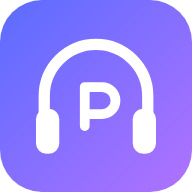
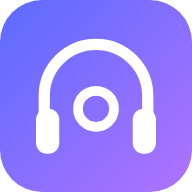
Renomme l'appli en Odecast, icône casque+O; v165
Claude-Session: https://claude.ai/code/session_01UPsEkbV1CFqTs3hgoHdmkF

Changed region(s): [[0.375, 0.4062, 0.6562, 0.6875]]

diff --git a/app.js b/app.js
@@ -1,4 +1,4 @@
-const APP_VERSION = '2026-11-06.164';
+const APP_VERSION = '2026-11-06.165';
 const $ = s => document.querySelector(s);
 const svg = (d, n = 20, fill = false) => `<svg viewBox="0 0 24 24" width="${n}" height="${n}" ${fill ? 'fill="currentColor"' : 'fill="none" stroke="currentColor" stroke-width="2" stroke-linecap="round" stroke-linejoin="round"'} aria-hidden="true">${d}</svg>`;
 const IC = {
@@ -830,8 +830,8 @@ function installSteps() {
     if (d.br === 'firefox') return ["Touche le menu (⋮) en haut à droite.", "Choisis « Installer ».", "Valide."];
     return ["Touche le menu du navigateur (⋮) en haut à droite.", "Choisis « Installer l'application » (ou « Ajouter à l'écran d'accueil »).", "Valide avec « Installer ».", "Si ces choix n'apparaissent pas, ouvre la page directement dans Chrome (pas dans une autre application) et recommence."];
   }
-  if (d.br === 'firefox') return ["Firefox pour ordinateur n'installe pas les applications web : utilise Chrome ou Edge pour installer Podiva."];
-  return ["Dans la barre d'adresse, clique sur l'icône d'installation (écran avec une flèche, à droite).", "Ou ouvre le menu (⋮) → « Enregistrer et partager » → « Installer Podiva… » (Edge : menu ··· → Applications → « Installer ce site comme une application »).", "Valide avec « Installer »."];
+  if (d.br === 'firefox') return ["Firefox pour ordinateur n'installe pas les applications web : utilise Chrome ou Edge pour installer Odecast."];
+  return ["Dans la barre d'adresse, clique sur l'icône d'installation (écran avec une flèche, à droite).", "Ou ouvre le menu (⋮) → « Enregistrer et partager » → « Installer Odecast… » (Edge : menu ··· → Applications → « Installer ce site comme une application »).", "Valide avec « Installer »."];
 }
 async function installApp() {
   const p = window.__bip;

diff --git a/worker/worker.js b/worker/worker.js
@@ -45,7 +45,7 @@ async function share(u, env) {
   const dest = okTo ? to : '';
   if (!img && dest) img = dest.split('?')[0].replace(/index\.html$/, '') + 'icons/icon-512.png'; // carte sans pochette (liste, playlist) : icône de l'app
   const html = `<!doctype html><html lang="fr"><head><meta charset="utf-8"><title>${esc(title)}</title>
-<meta property="og:type" content="website"><meta property="og:site_name" content="Podiva"><meta property="og:title" content="${esc(title)}"><meta property="og:description" content="${esc(desc)}">${img ? `<meta property="og:image" content="${esc(img)}"><meta name="twitter:image" content="${esc(img)}">` : ''}${dest ? `<meta property="og:url" content="${esc(dest)}">` : ''}
+<meta property="og:type" content="website"><meta property="og:site_name" content="Odecast"><meta property="og:title" content="${esc(title)}"><meta property="og:description" content="${esc(desc)}">${img ? `<meta property="og:image" content="${esc(img)}"><meta name="twitter:image" content="${esc(img)}">` : ''}${dest ? `<meta property="og:url" content="${esc(dest)}">` : ''}
 <meta name="twitter:card" content="summary"><meta name="viewport" content="width=device-width,initial-scale=1"></head><body style="font-family:system-ui;background:#0b0d14;color:#fff;text-align:center;padding:40px">${img ? `<img src="${esc(img)}" width="160" style="border-radius:16px">` : ''}<h2>${esc(title)}</h2>${dest ? `<p><a style="color:#9bb0ff" href="${esc(dest)}">Ouvrir dans l'app Podcasts</a></p><script>location.replace(${JSON.stringify(dest)})</script>` : ''}</body></html>`;
   return new Response(html, { headers: { 'Content-Type': 'text/html; charset=utf-8', 'Cache-Control': 'public, max-age=3600' } });
 }

diff --git a/index.html b/index.html
@@ -5,7 +5,7 @@
 <meta name="viewport" content="width=device-width,initial-scale=1,viewport-fit=cover">
 <meta name="theme-color" content="#0b0d14">
 <meta name="apple-mobile-web-app-capable" content="yes">
-<meta name="apple-mobile-web-app-title" content="Podiva">
+<meta name="apple-mobile-web-app-title" content="Odecast">
 <meta name="mobile-web-app-capable" content="yes">
 <meta name="apple-mobile-web-app-status-bar-style" content="black-translucent">
 <link rel="manifest" href="manifest.webmanifest">
@@ -15,8 +15,8 @@
 <link rel="icon" type="image/png" sizes="48x48" href="icons/favicon-48.png">
 <link rel="apple-touch-icon" href="icons/icon-180.png">
 <link rel="stylesheet" href="style.css">
-<meta property="og:type" content="website"><meta property="og:site_name" content="Podiva"><meta property="og:title" content="Podiva"><meta property="og:description" content="Écoute tes podcasts favoris, même écran verrouillé."><meta property="og:image" content="https://toolsmaker2099.github.io/mypodcastplayer/icons/icon-512.png">
-<title>Podiva</title>
+<meta property="og:type" content="website"><meta property="og:site_name" content="Odecast"><meta property="og:title" content="Odecast"><meta property="og:description" content="Écoute tes podcasts favoris, même écran verrouillé."><meta property="og:image" content="https://toolsmaker2099.github.io/mypodcastplayer/icons/icon-512.png">
+<title>Odecast</title>
 </head>
 <body>
 <header>

diff --git a/share.js b/share.js
@@ -27,7 +27,7 @@ async function shareFeed(feed) {
 async function shareCollection(kind, name, data) {
   const isList = kind === 'list', label = isList ? 'Liste' : 'Playlist', n = data.length;
   let code; try { code = await Sync.shareCreate({ kind, name, data }); } catch (e) { alert('Partage impossible : ' + e.message); return; }
-  const title = `${label} « ${name} »`, desc = `${n} ${isList ? 'podcast' : 'épisode'}${n > 1 ? 's' : ''} à découvrir dans l'app Podiva.`;
+  const title = `${label} « ${name} »`, desc = `${n} ${isList ? 'podcast' : 'épisode'}${n > 1 ? 's' : ''} à découvrir dans l'app Odecast.`;
   const base = location.origin + location.pathname.replace(/index\.html$/, ''), url = `${base}?share=${code}&n=${encodeURIComponent(title)}`, p = Sync.proxy();
   const link = p ? `${p}/p?share=${code}&n=${encodeURIComponent(title)}&d=${encodeURIComponent(desc)}&to=${encodeURIComponent(url)}` : url;
   shareSheet({ sub: `${title} · ${n} ${isList ? 'podcast' : 'épisode'}${n > 1 ? 's' : ''}`, url, link, text: `Écoute ${isList ? 'ma liste' : 'ma playlist'} « ${name} » : ${link}`, nativeText: `${title} sur Podcasts` });

diff --git a/README.md b/README.md
@@ -1,4 +1,4 @@
-# Podiva (PWA)
+# Odecast (PWA)
 
 PWA statique : favoris RSS, recherche iTunes, minuterie d'arrêt optionnelle, lecture écran verrouillé (Media Session). La progression de lecture n'est jamais mémorisée.
 
